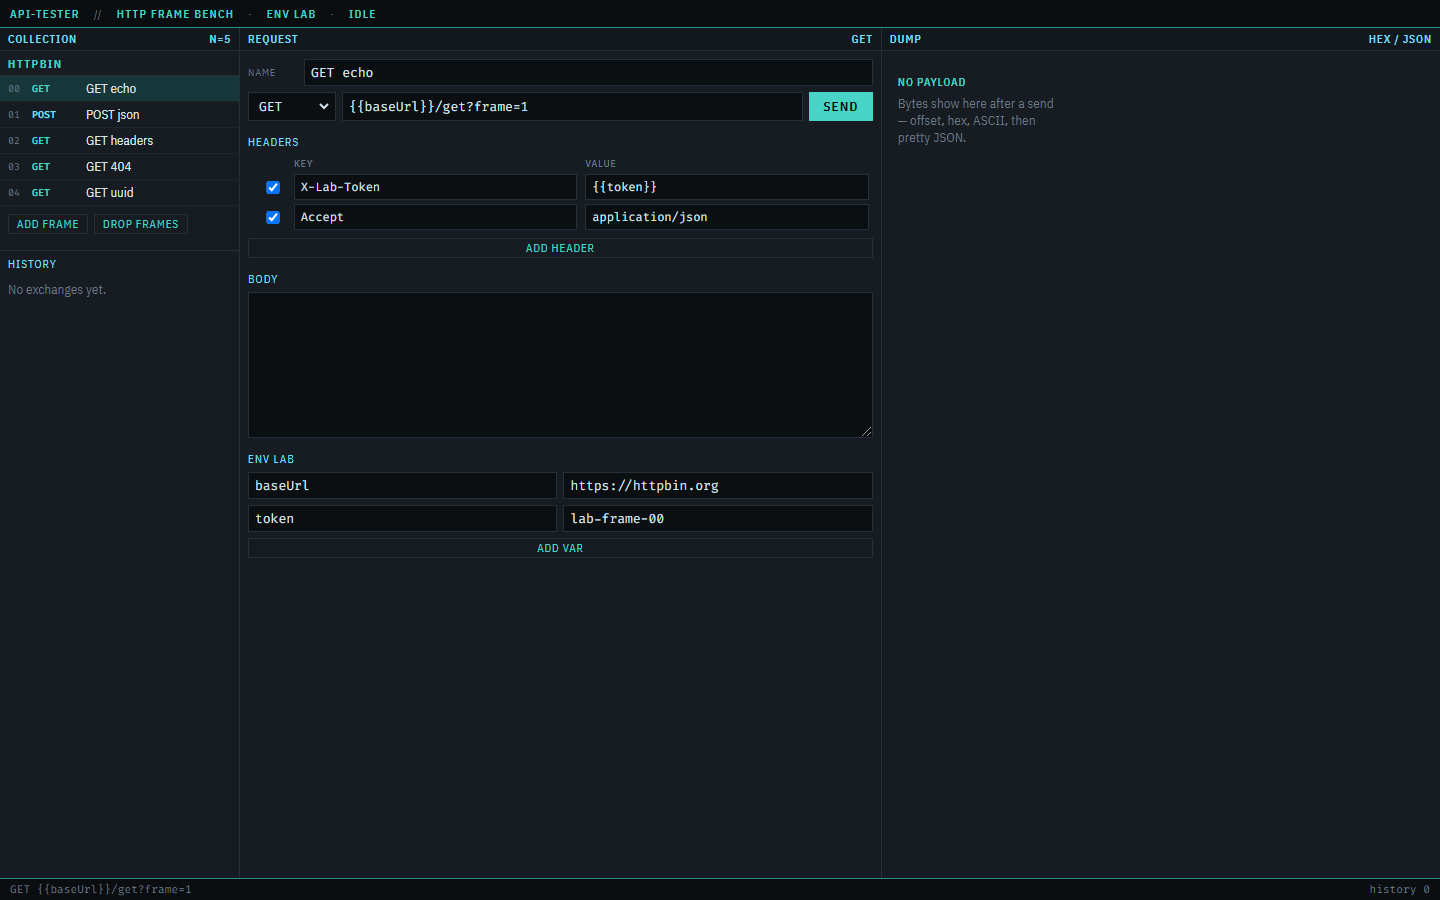
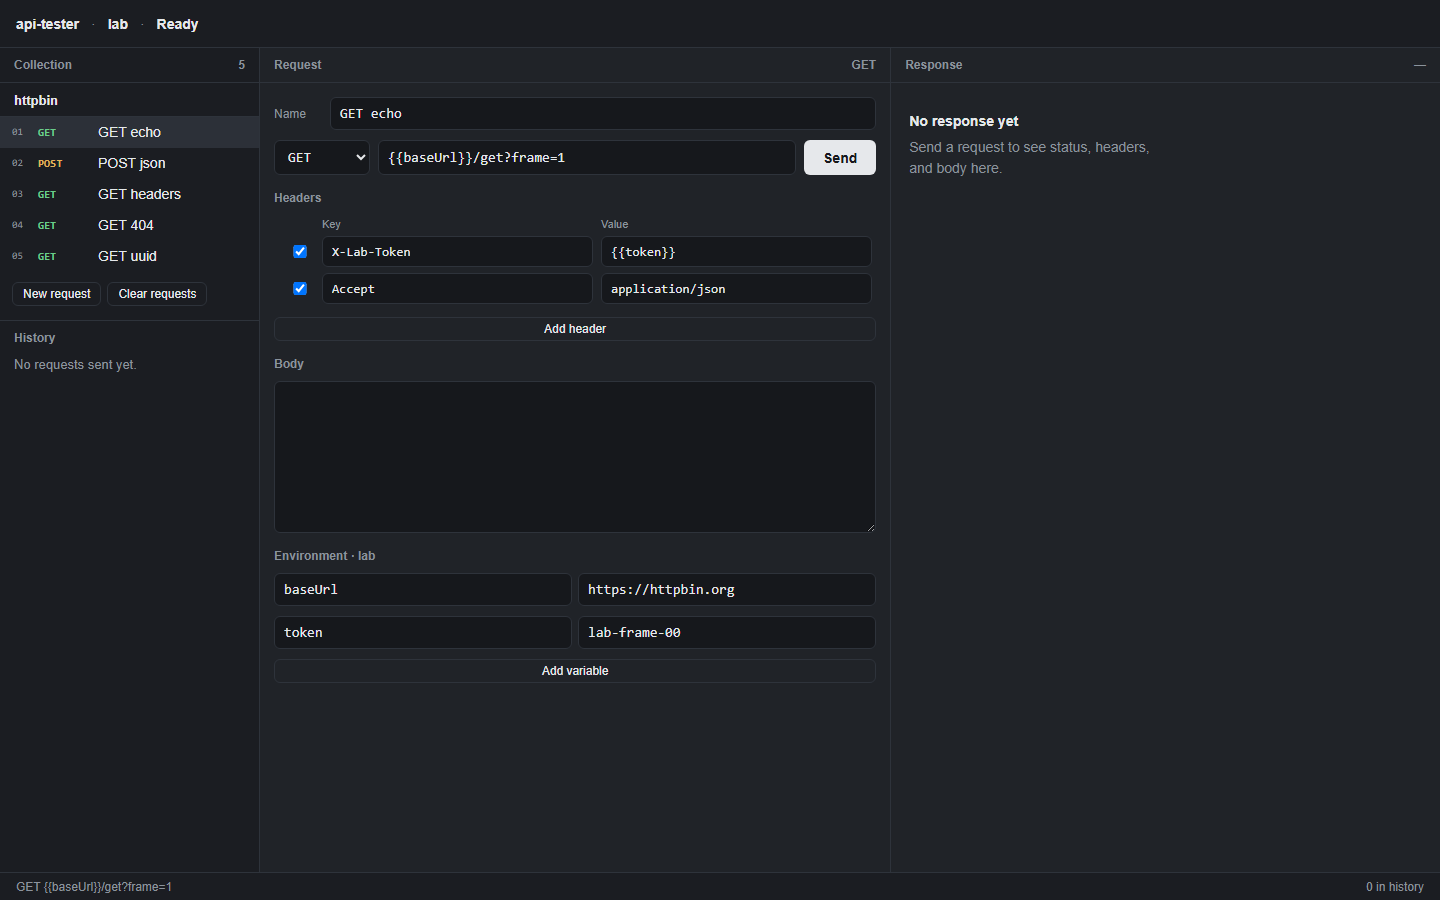
Refresh the README screenshot for the product restyle.

diff --git a/README.md b/README.md
@@ -1,6 +1,6 @@
 # api-tester
 
-Dense HTTP workbench: collections on the left, the request in the middle, a hex-ish JSON dump on the right. Cyan on charcoal, IBM Plex Sans Condensed + Fira Code — a Wireshark / mainframe bench, not a purple client.
+HTTP client with a collection tree, request editor, and response pane. Dark IDE chrome, IBM Plex Sans Condensed + Fira Code. Cyan is reserved for success status.
 
 Seeded with an **httpbin** collection (`{{baseUrl}}` → `https://httpbin.org`). Headers and the URL interpolate `{{env}}` tokens. History keeps the last 40 exchanges in `localStorage`.
 
@@ -11,7 +11,7 @@ npm install
 npm run dev
 ```
 
-Open the URL Vite prints (usually http://localhost:5173). You should see three panes: **httpbin** frames, a GET echo editor, and an empty dump until you hit **Send**.
+Open the URL Vite prints (usually http://localhost:5173). You should see **httpbin** on the left, a GET editor in the middle, and an empty response until you hit **Send**.
 
 ```bash
 npm run build
@@ -20,8 +20,8 @@ npm run preview
 
 ## Notes
 
-- `GET 404` is in the seed so you can watch a failed status in the dump pane.
-- **Drop frames** clears the capture; **Reload httpbin** restores the seed.
-- Unresolved `{{tokens}}` stay on the bench — they never fire a half-built request.
+- `GET 404` is in the seed so you can watch a failed status in the response pane.
+- **Clear requests** empties the collection; **Load sample collection** restores the seed.
+- Unresolved `{{tokens}}` are blocked — they never fire a half-built request.
 
-![HTTP frame bench](docs/bench.png)
+![api-tester](docs/bench.png)
